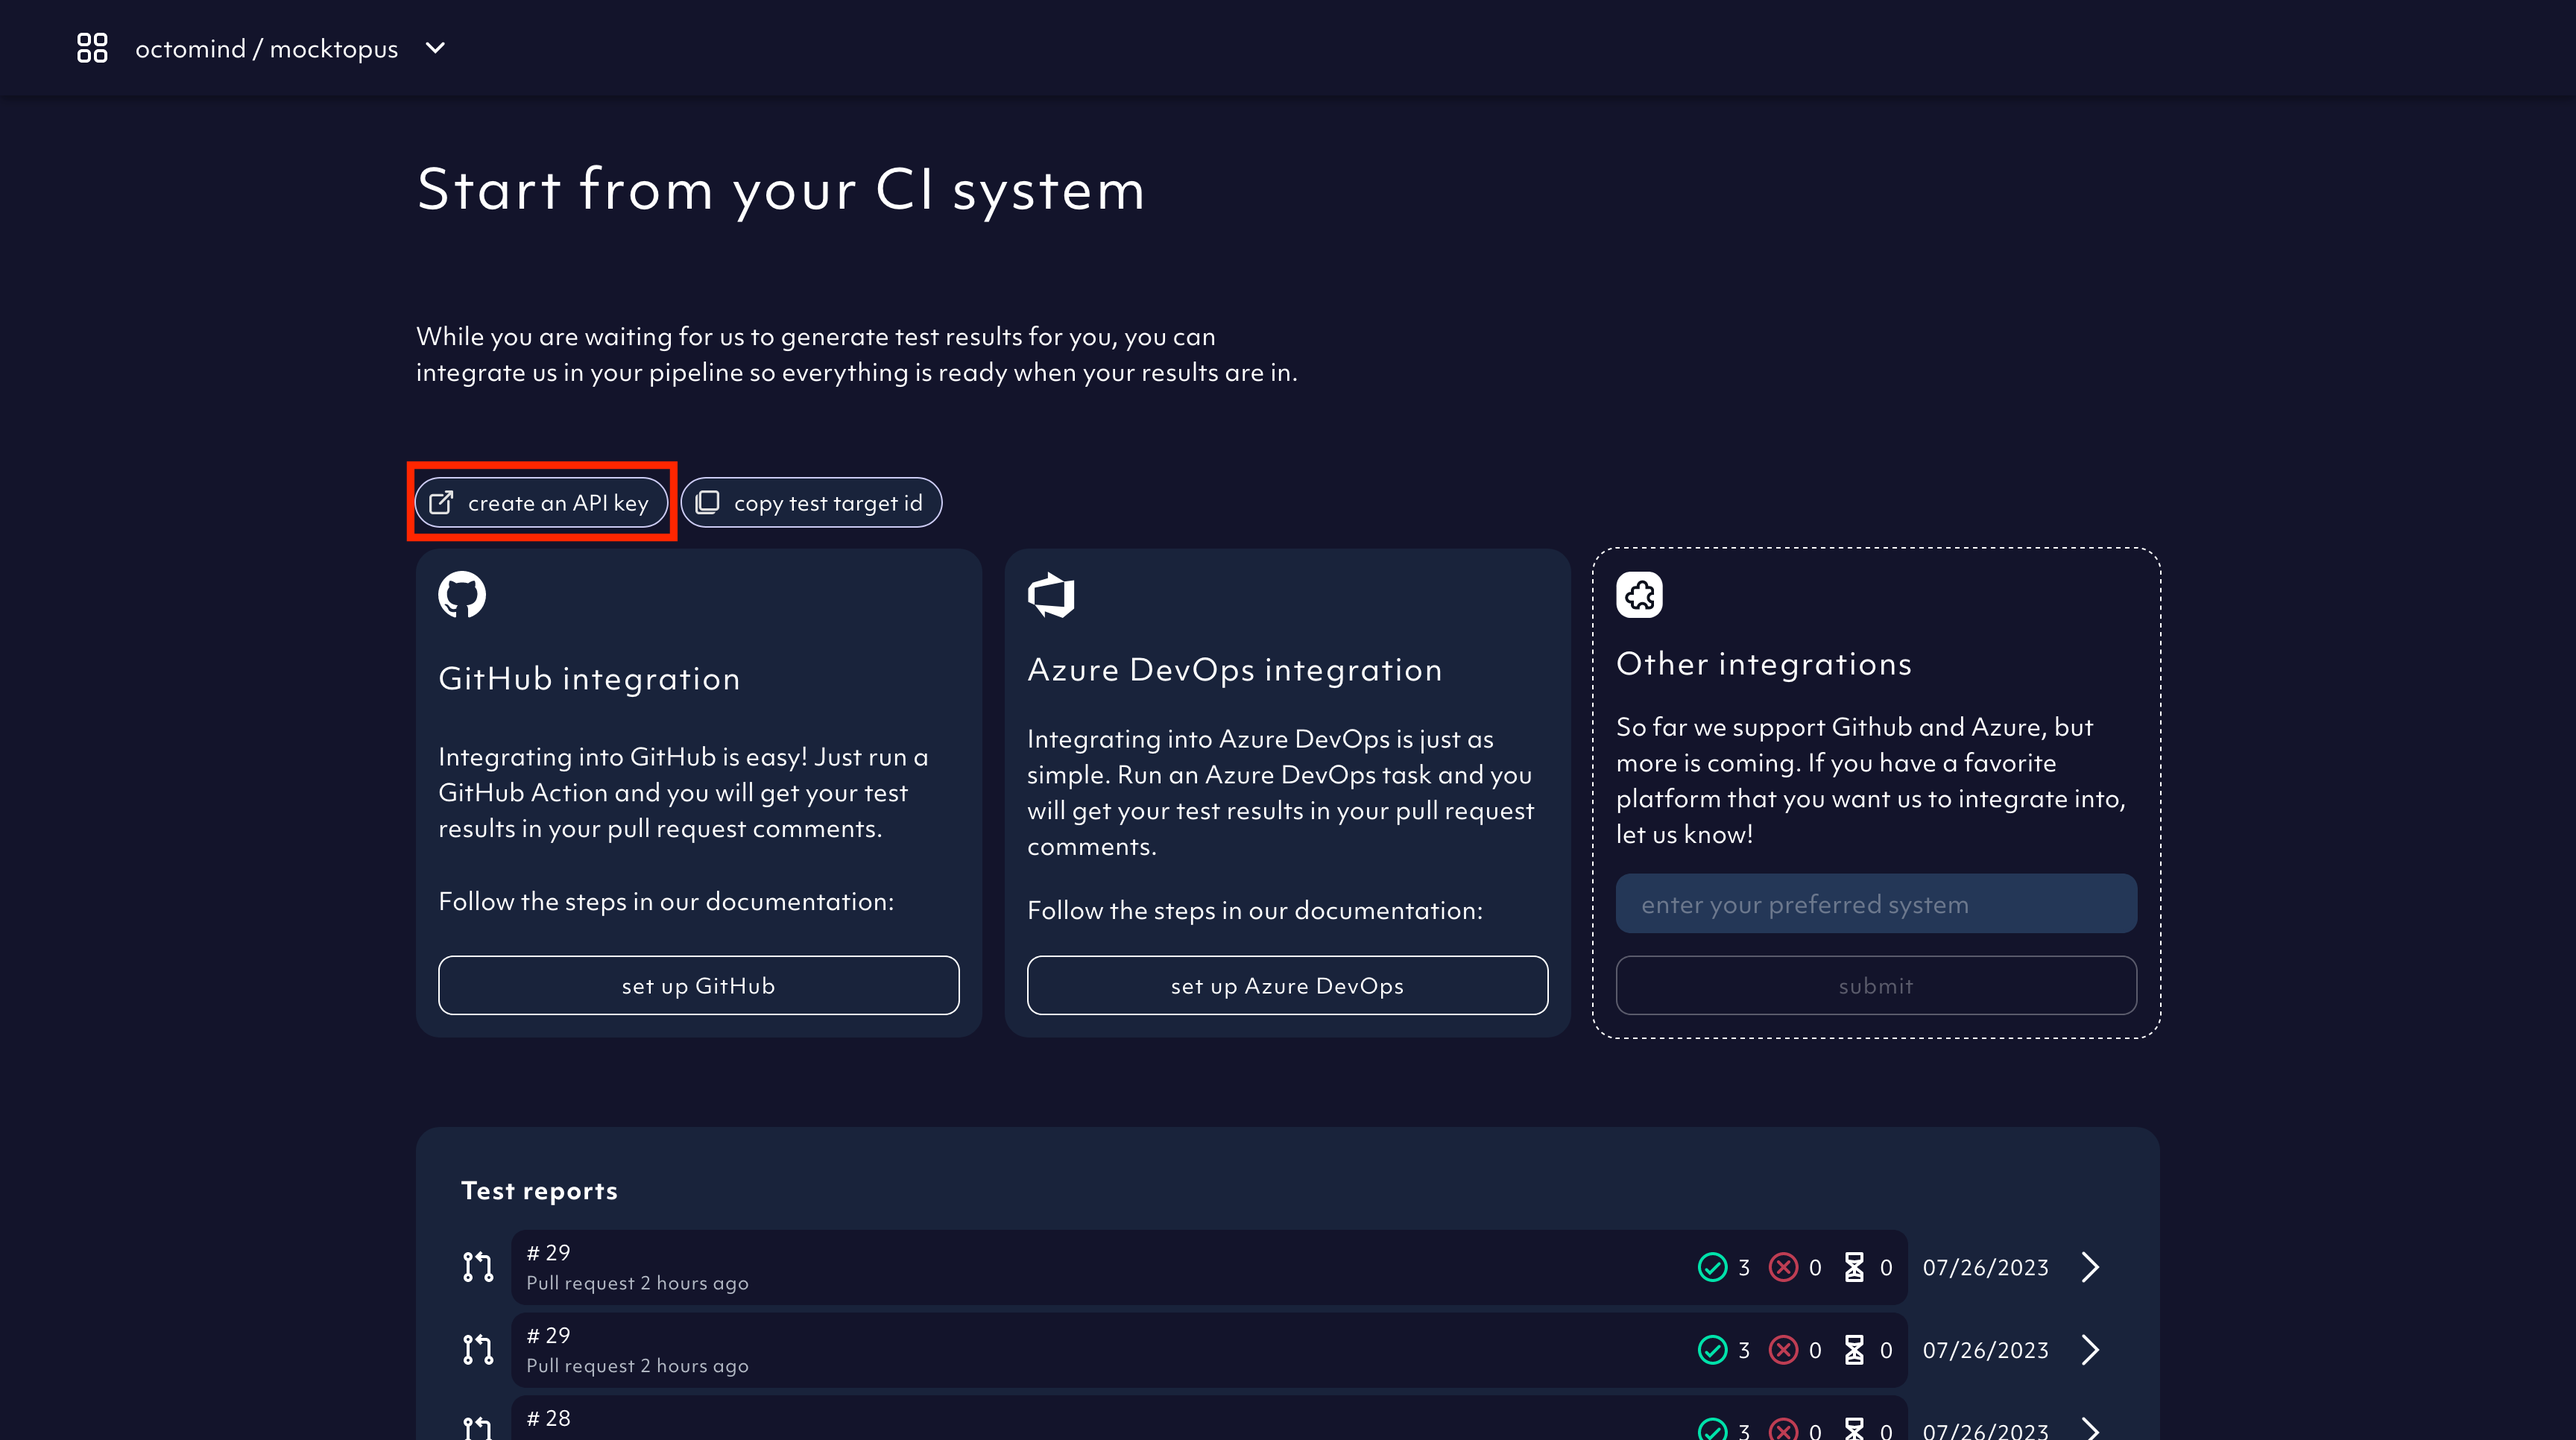
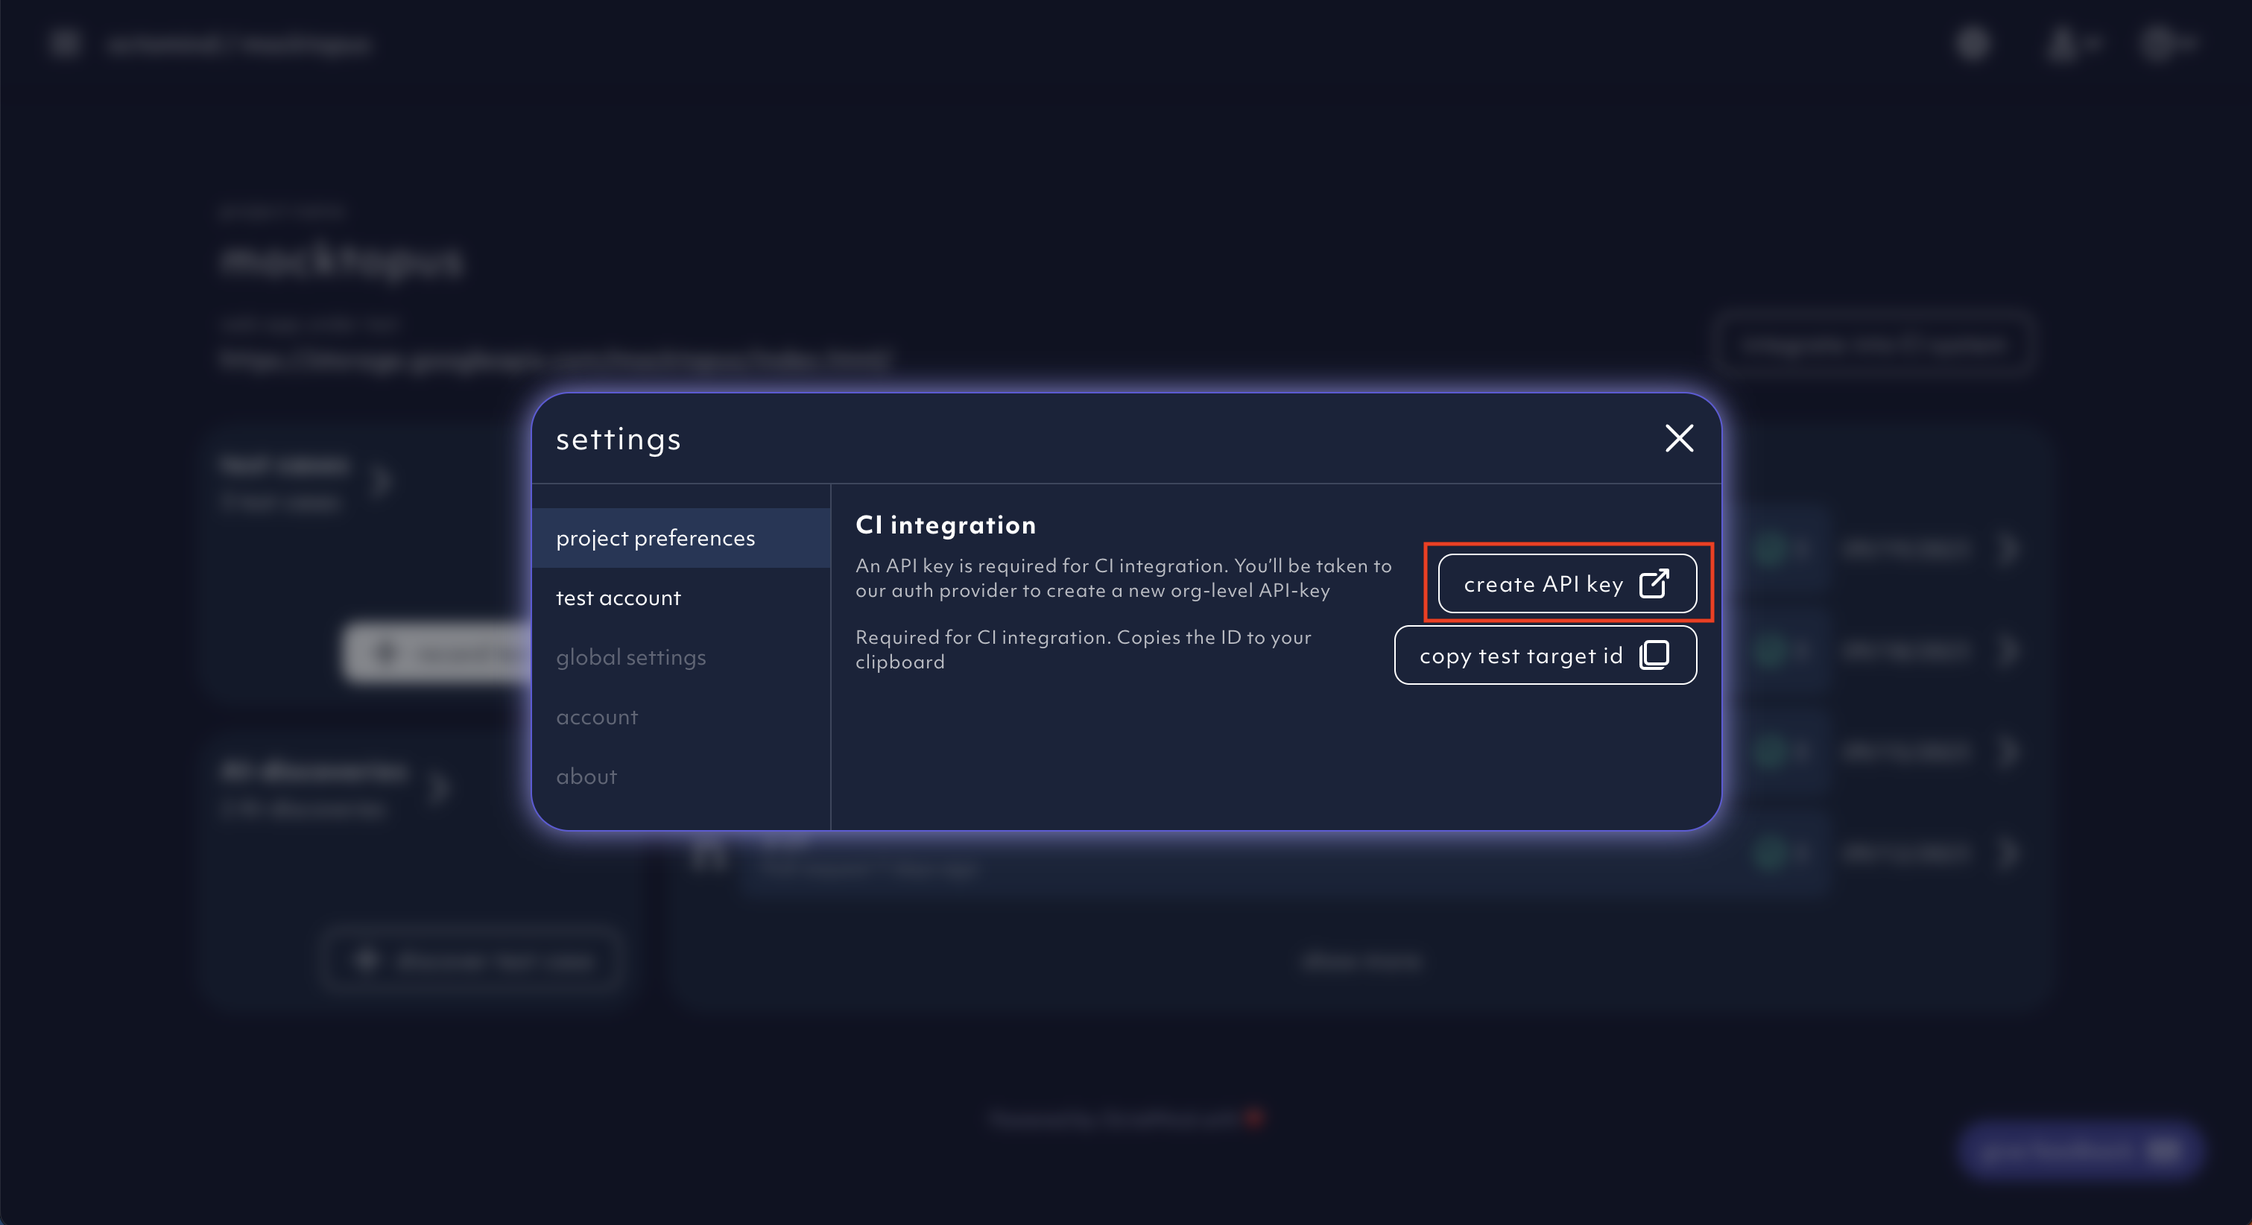
update readme

diff --git a/README.md b/README.md
@@ -9,9 +9,9 @@ To trigger automagically from your GitHub repo inside Jenkins, you need to:
 
 ## Creating API key
 You can get your API key from the [octomind landing page](https://app.octomind.dev) once signed-in.
-If you are greeted with the 'Setup your autonomous end-to-end tests' message, please sign-in first
+If you are greeted with the 'Setup your autonomous end-to-end tests' message, please sign-in first.
 
-Click on `Create an API key`.
+The option to create your API key can be found within the settings menu in the top right corner. Click on `create API key`.
 
 ![create-api-key](/docs/create-api-key.png)
 
@@ -27,8 +27,9 @@ Please add the API key to your CI provider as a secret.
 ## Creating Test Target
 
 You can get your test target ID from the [octomind landing page](https://app.octomind.dev) once signed-in.
-If you are greeted with the 'Setup your autonomous end-to-end tests' message, please sign-in first
+If you are greeted with the 'Setup your autonomous end-to-end tests' message, please sign-in first.
 
+The option to copy your test target ID can be found within the settings menu in the top right corner. Click on `copy test target id`.
 
 ![copy-test-target](/docs/copy-test-target.png)
 
